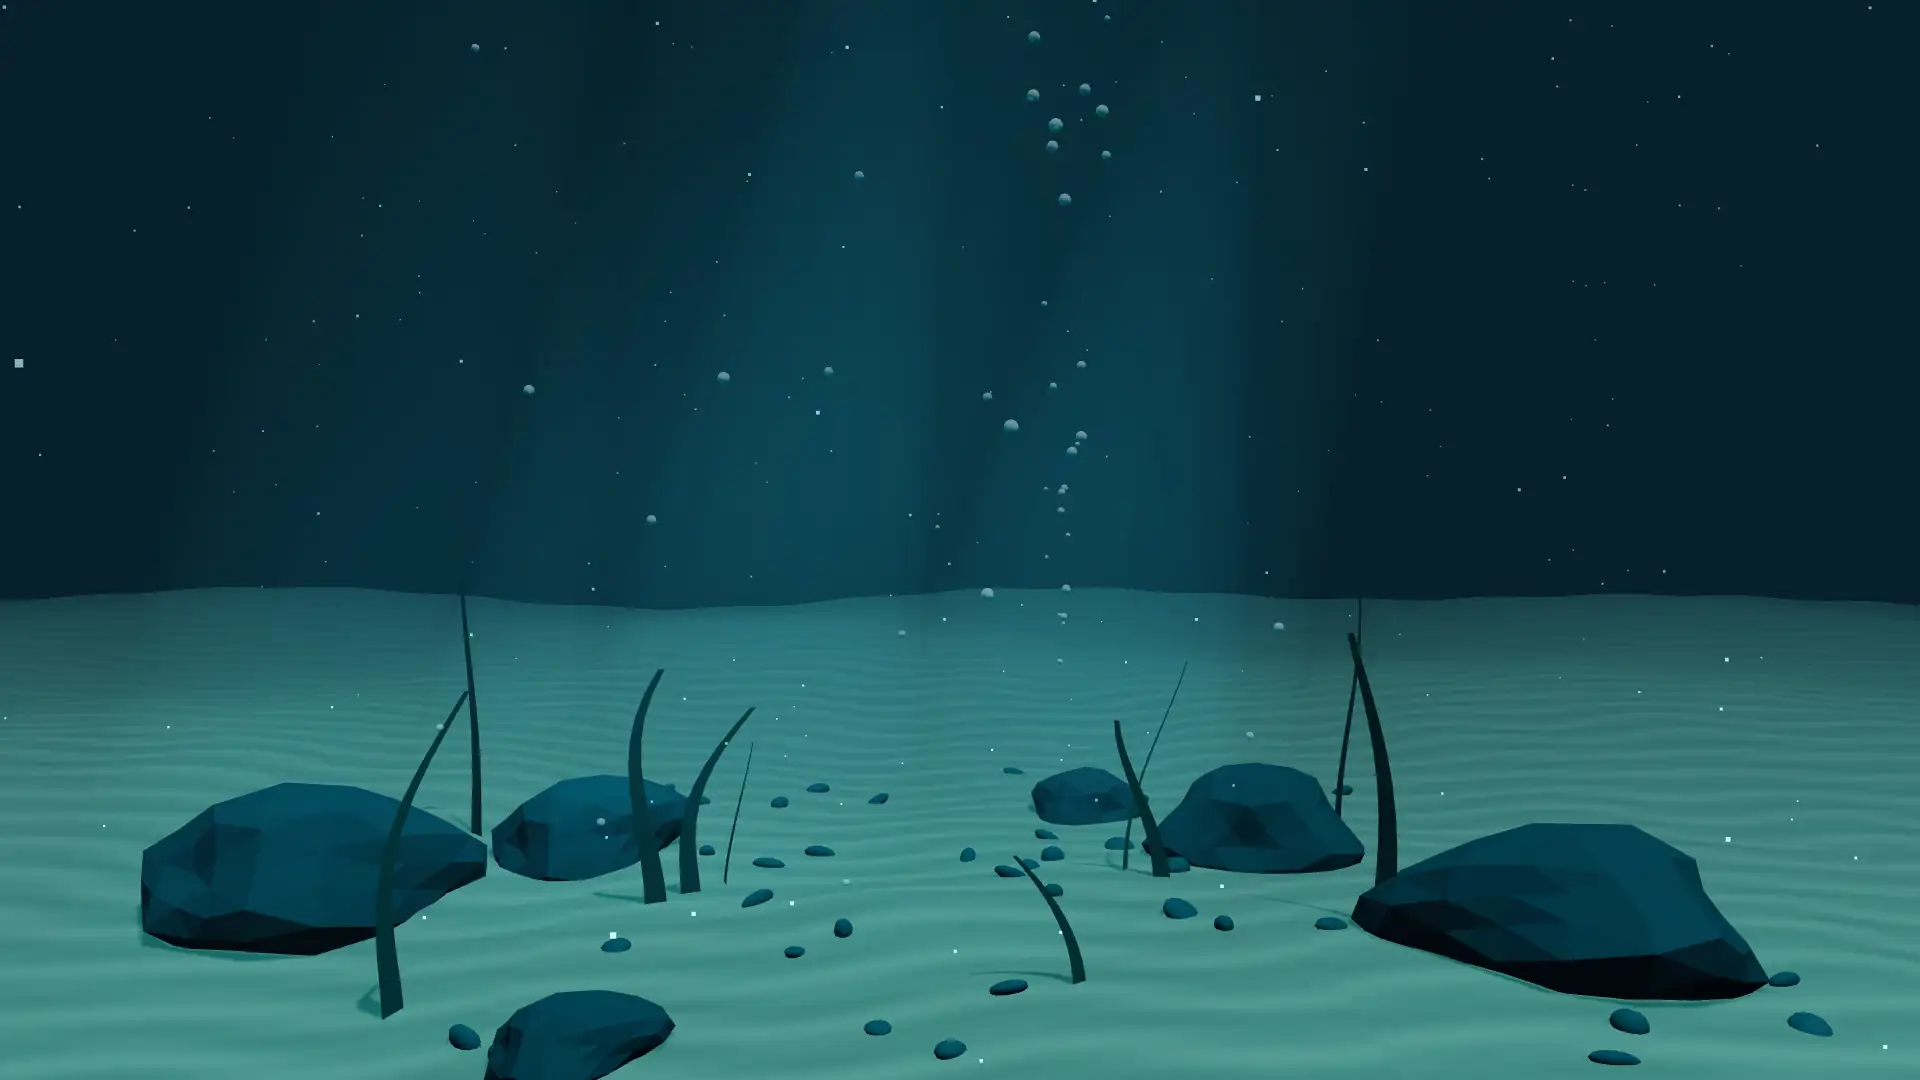
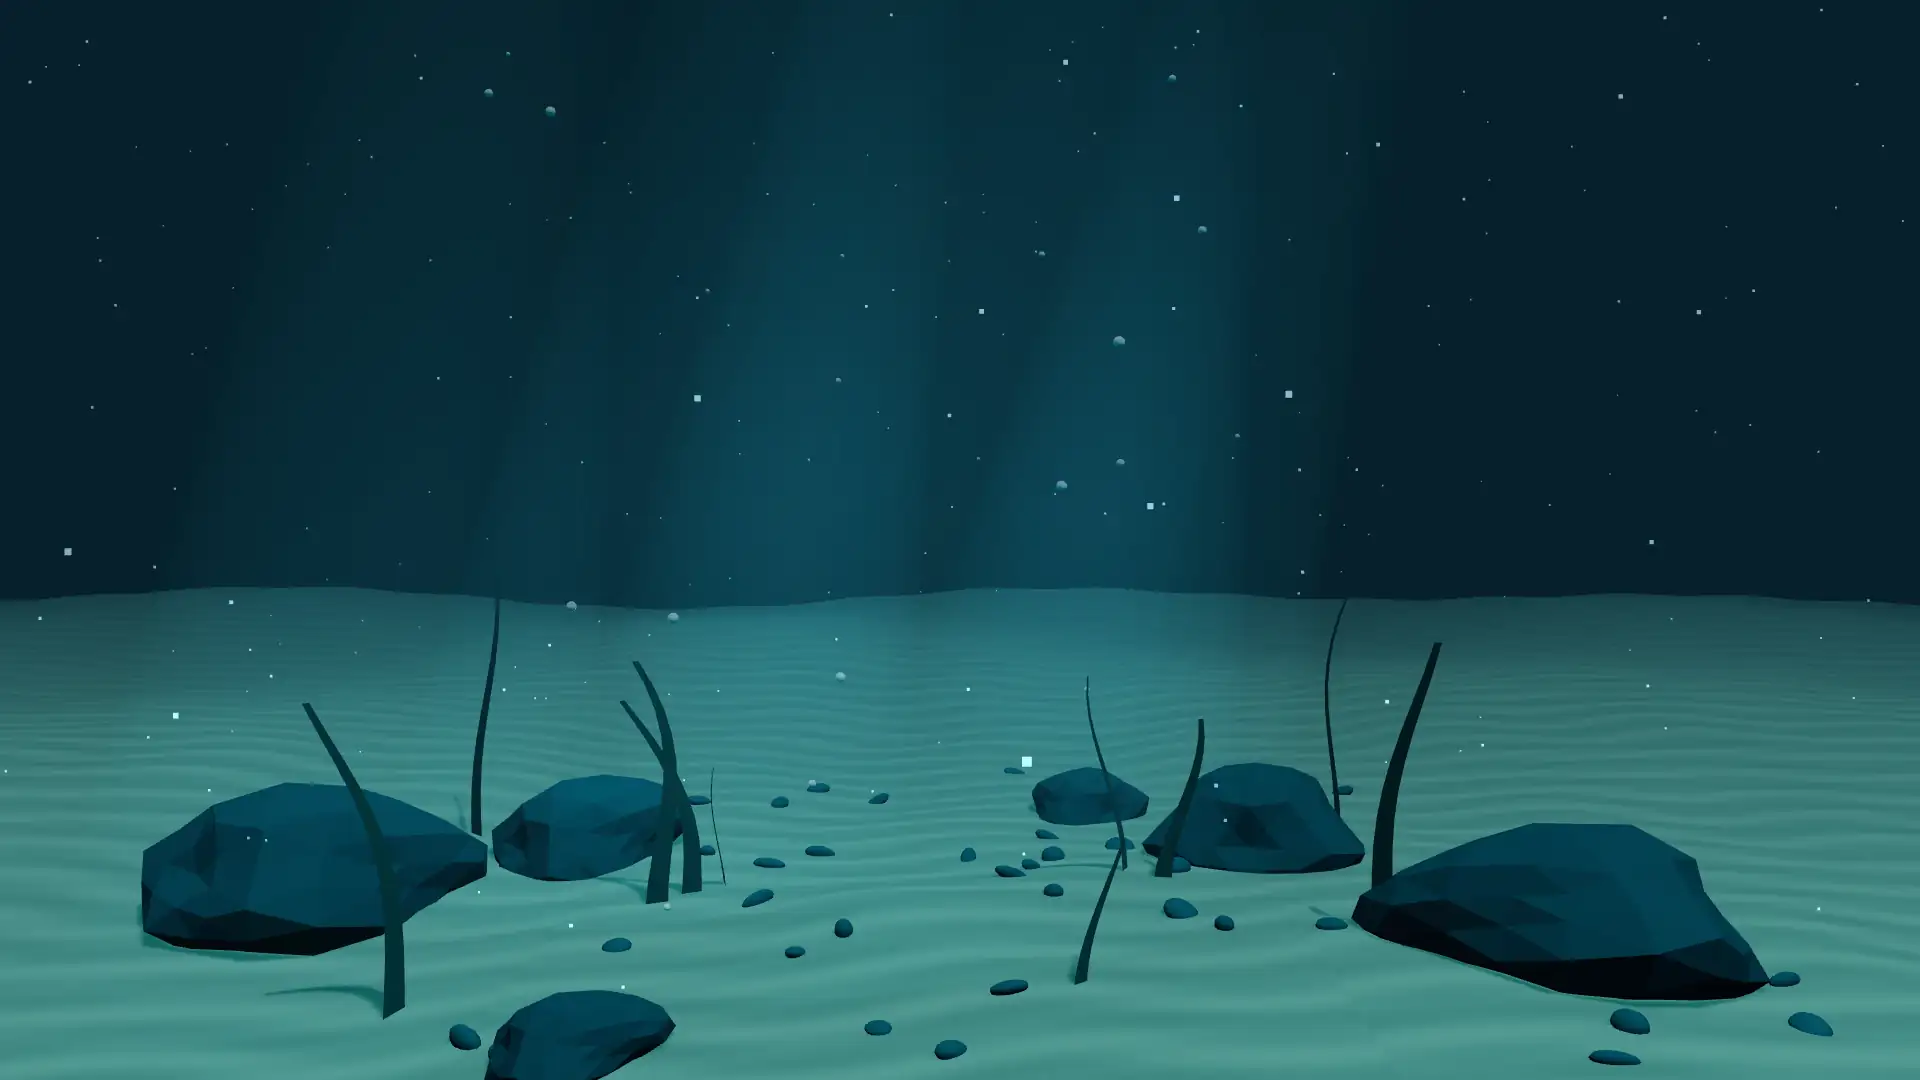
Projects: same seabed view as the contact page, darker, with no change on load
The seabed mode uses the contact page's camera, its placeholder still is
re-taken from that same view, and the bottle's bubble column starts
hidden, so nothing shifts or vanishes when the live scene fades in. The
tint over it is darker.

Claude-Session: https://claude.ai/code/session_017duqhLnJj8AB6LNW48U1TW

diff --git a/shore-scene.js b/shore-scene.js
@@ -5,8 +5,8 @@ import * as THREE from 'three';
 
 const canvas = document.getElementById('shore-scene');
 const MOTION = !matchMedia('(prefers-reduced-motion: reduce)').matches;
-// data-mode="seabed" (the projects page): just the seabed behind the page, no bottle, at half
-// speed, a wider view, and drawn every other frame at standard resolution since it sits under a tint
+// data-mode="seabed" (the projects page): the same seabed without the bottle, at half speed,
+// drawn every other frame at standard resolution since it sits under a dark tint
 const SEABED = canvas.dataset.mode === 'seabed';
 const SPEED = SEABED ? 0.5 : 1;
 
@@ -304,9 +304,9 @@ function resize() {
   viewW = w; viewH = h;
   renderer.setSize(w, h, false);
   camera.aspect = w / h;
-  camera.fov = SEABED ? (portrait ? 62 : 52) : portrait ? 50 : 40;
-  if (SEABED) { camBase.set(0.3, portrait ? 4.4 : 3.9, portrait ? 14 : 12.5); look.set(0.3, portrait ? 3.2 : 2.6, 0); }
-  else { camBase.set(0.3, portrait ? 3.4 : 3.1, portrait ? 11 : 9.5); look.set(0.3, portrait ? 3.0 : 2.5, 0); }
+  camera.fov = portrait ? 50 : 40; // the same view on the contact page and behind the projects page
+  camBase.set(0.3, portrait ? 3.4 : 3.1, portrait ? 11 : 9.5);
+  look.set(0.3, portrait ? 3.0 : 2.5, 0);
   camera.clearViewOffset();
   camera.updateProjectionMatrix();
   // shift the view so the bottle lands in the gap between the two columns
@@ -334,7 +334,10 @@ function runTweens(now) {
   }
 }
 let busy = SEABED; // the bottle is in the message sequence (or absent): no idle rocking, no bubbles from its mouth
-if (SEABED) bottle.visible = cork.visible = false;
+if (SEABED) {
+  bottle.visible = cork.visible = false;
+  bubbleData.forEach((b) => { if (b.fromMouth) b.y = 99; }); // no bottle, so no bubbles from its mouth, from the very start
+}
 
 // a point on screen, at a given distance in front of the camera, in world space
 function screenToWorld(x, y, dist, out) {

diff --git a/projects/index.html b/projects/index.html
@@ -7,10 +7,10 @@
     <meta name="description" content="The Reef: Amy Cui's finished projects, from UX case studies to front-end builds and graphic design." />
     <title>Projects — Amy Cui</title>
     <link rel="stylesheet" href="../styles.css?v=48" />
-    <link rel="stylesheet" href="../reef.css?v=5" />
+    <link rel="stylesheet" href="../reef.css?v=6" />
     <script src="../script.js?v=47" defer></script>
     <script type="importmap">{"imports":{"three":"https://cdn.jsdelivr.net/npm/three@0.170.0/build/three.module.min.js"}}</script>
-    <script type="module" src="../shore-scene.js?v=5"></script>
+    <script type="module" src="../shore-scene.js?v=6"></script>
     <script>
       // arriving from the crossroads: play the second half of its transition
       try { if (sessionStorage.getItem("arrive") === "reef") { sessionStorage.removeItem("arrive"); document.documentElement.classList.add("arrive-reef"); } } catch (e) {}

diff --git a/contact.html b/contact.html
@@ -16,7 +16,7 @@
     <script src="script.js?v=47" defer></script>
     <script src="quill-cursor.js?v=2" defer></script>
     <script type="importmap">{"imports":{"three":"https://cdn.jsdelivr.net/npm/three@0.170.0/build/three.module.min.js"}}</script>
-    <script type="module" src="shore-scene.js?v=5"></script>
+    <script type="module" src="shore-scene.js?v=6"></script>
   </head>
   <body class="shore-page">
     <header class="site-nav">

diff --git a/reef.css b/reef.css
@@ -40,7 +40,7 @@
   background:
     linear-gradient(#2fd3c50c 1px, transparent 1px) 0 0 / 32px 32px,
     linear-gradient(90deg, #2fd3c50c 1px, transparent 1px) 0 0 / 32px 32px,
-    linear-gradient(rgba(2, 10, 16, 0.62), rgba(2, 10, 16, 0.78));
+    linear-gradient(rgba(2, 10, 16, 0.74), rgba(2, 10, 16, 0.86));
 }
 @media (max-aspect-ratio: 4/5) {
   .reef-page::before { background-image: url("assets/reef/seabed-mob.webp"); }
